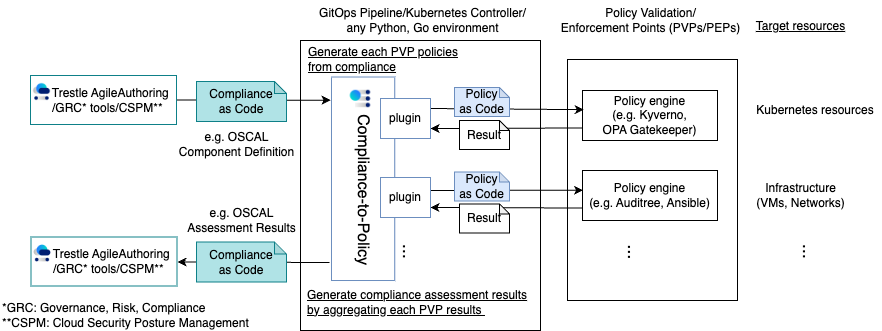
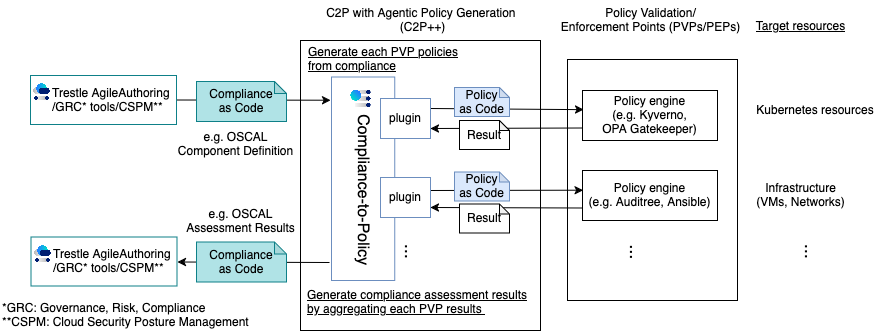
docs: define C2P++ in the README, and redraw the architecture
C2P++ is C2P with agentic policy generation: the step where an agent writes
the policy templates the plugins render. The README now says that above the
diagram, and the diagram says the same. Nothing else is under the name --
the engines, the aggregation and the posture are ordinary C2P.

diff --git a/README.md b/README.md
@@ -1,6 +1,8 @@
 # <img alt="Logo" width="50px" src="https://raw.githubusercontent.com/oscal-compass/compliance-to-policy/main/assets/compliance-to-policy-800x800.PNG" style="vertical-align: middle;" /> Compliance-to-Policy (also known as `C2P`)
 
-Compliance-to-Policy (C2P) is designed to bridge Compliance as Code such as Open Security Controls Assessment Language (OSCAL) and Policy as Code used by Policy Validation Point (PVP). It generates policies in native format of PVP from OSCAL Component Definitions and produces OSCAL Assessment Results from the native assessment results of PVP. C2P can be used both as a command-line tool and a Python library, making it easy and flexible to integrate into your Continuous Compliance pipelines, such as GitHub Actions, Tekton Pipelines, or Agile Authoring Pipelines. It supports multiple PVP engines, including [Kyverno](https://kyverno.io/), [Open Cluster Management Policy Framework](https://open-cluster-management.io/), and the open-source [Auditree](https://auditree.github.io/), through dedicated plugins for each. Custom plugins can be implemented with a small amount of Python code.
+Compliance-to-Policy (C2P) is designed to bridge Compliance as Code such as Open Security Controls Assessment Language (OSCAL) and Policy as Code used by Policy Validation Point (PVP). It generates policies in native format of PVP from OSCAL Component Definitions, and turns the native assessment results of PVP into OSCAL Assessment Results and a control-level compliance posture. C2P can be used both as a command-line tool and a Python library, making it easy and flexible to integrate into your Continuous Compliance pipelines, such as GitHub Actions, Tekton Pipelines, or Agile Authoring Pipelines. Custom plugins can be implemented with a small amount of Python code.
+
+**C2P++ is C2P with an agent skill added to its policy generation**, automating the production of the engine-specific policy templates. A component definition names the checks that verify each rule. C2P produces the target engine's native policy from the template that corresponds to each check. Until now those templates had to be prepared in advance. A check added to a component definition produced no policy until someone had written the template for it. In C2P++ an agent skill, [`skills/policy-generation`](skills/policy-generation/), produces that engine-specific template.
 
 ![C2P Overview](/assets/architecture.png)
 
@@ -14,9 +16,21 @@ Compliance-to-Policy (C2P) is designed to bridge Compliance as Code such as Open
     - The plugin is responsible for implementing a function that takes the results of the policy engine and returns verdicts (pass/fail/error), reason, and/or resource name for each respective policy by its names/IDs.
 1. C2P produces Compliance Assessment Results, for example OSCAL Assessment Results that represents the assessment results of each control 
 
-Demo:
-- [Kyverno as PVP](docs/public/kyverno.md)
-- [Heterogeneous PVPs (mixing Kyverno, OCM Policy, and Auditree)](docs/public/heterogeneous.md)
+
+## KubeCon NA 2026 demo
+
+One NIST SP 800-53 control, authored once, becomes policy for three Kubernetes engines, runs
+against a live cluster, and comes back as OSCAL assessment results and a compliance posture.
+
+[![Watch the demo on YouTube](https://img.youtube.com/vi/pk3EsgA4EBQ/maxresdefault.jpg)](https://www.youtube.com/watch?v=pk3EsgA4EBQ)
+
+**Want to run it yourself?** [NIST SP 800-53 to a compliance posture, end to end](docs/end-to-end/README.md)
+walks the same chain in ten steps you can follow with your own agent, with the real inputs, the
+captured output of every command, and the artefacts each step produced.
+
+The video is an introduction and moves at a presentation's pace, so it does not look command for
+command like the walkthrough — it shows the shape of the chain, and the walkthrough is where you
+can reproduce it.
 
 ## Goals
 Provide seamless integration with compliance frameworks and existing policy engines, and enable to use heterogeneous policy engines in compliance check operation
@@ -33,6 +47,9 @@ Provide seamless integration with compliance frameworks and existing policy engi
 ## Supported Policy Engines
 - [Kyverno](https://kyverno.io/) (for Kubernetes resources)
     - Kyverno is a policy engine designed for Kubernetes, where policies are managed as Kubernetes resources. Kyverno policies can validate, mutate, generate, and clean up Kubernetes resources.
+    - Two policy languages are supported, by separate plugins. `kyverno.io/v1 ClusterPolicy` is the original DSL, deprecated in Kyverno 1.19 and removed in 1.20; `policies.kyverno.io/v1` is its CEL-based replacement. Both are generated from the same component definition, which is the argument for authoring the control rather than the policy
+- [ValidatingAdmissionPolicy](https://kubernetes.io/docs/reference/access-authn-authz/validating-admission-policy/) (for Kubernetes resources)
+    - Upstream Kubernetes, CEL evaluated inside the API server, no controller to install. It decides at admission time only: it runs no background scan over objects that already exist and publishes no report, so C2P obtains its verdicts by replaying a workload as a server-side dry run. What CEL in the API server cannot do — fetch from a registry, read another object — is a limit on which checks an estate can express with it, which is visible in the posture as coverage rather than hidden
 - [Open Cluster Management Policy Framework](https://open-cluster-management.io/) (for Kubernetes resources)
     - OCM is a multi-cluster management platform that provides governance of Kubernetes policies. [Its policy framework](https://open-cluster-management.io/concepts/policy/) allows for the validation and enforcement of policies across multiple clusters.
 - [Auditree](https://auditree.github.io/) (for any target, especially well-suited for resources of PaaS/SaaS/IaaS available through REST API.)
@@ -218,6 +235,13 @@ You may be asked passphrase of SSH key to access to the git repo.
 You can create a custom plugin by overriding `PluginSpec` and `PluginConfig`. 
 `PluginSpec` has two interfaces `generate_pvp_policy` and `generate_pvp_result`. 
 C2P framework will instantiate `PluginSpec` with `PluginConfig`.
+
+A plugin whose generated artifact is one document per check renders it from a template, and
+writing those templates is the part that needs engine knowledge rather than c2p knowledge. The
+agent skill in [`skills/policy-generation/`](skills/policy-generation/SKILL.md) covers it: the
+template contract, the three Kubernetes engines and the shape each one wants, what an engine
+cannot express (and why declaring no check is the right answer when it cannot), and how to
+verify generated policy byte for byte.
 
 #### PluginConfig
 1. Extend PluginConfig with custom fields as the plugin needs 
